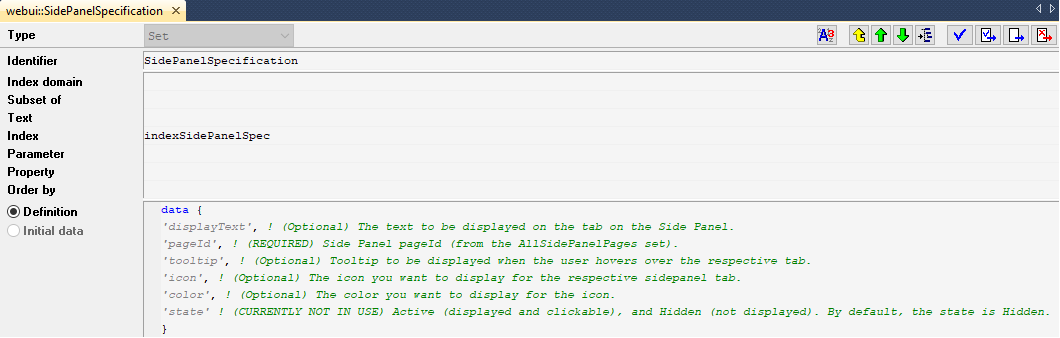
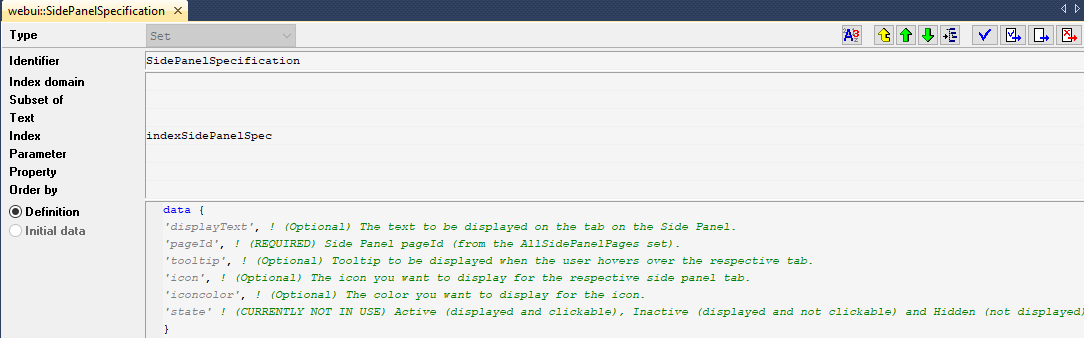
Changed color to iconcolor and corrected images

diff --git a/webui/side-panels-grd-pages.rst b/webui/side-panels-grd-pages.rst
@@ -200,7 +200,7 @@ This set has 4 elements representing side panels properties:
 			
 #. ``tooltip``: The text here would be displayed when the user hovers over that respective side panel tab. This is an optional field and if left empty, no tooltip is displayed.
 #. ``icon``: The icon you want to display on the side panel tab. You can select from a list of 1600+ icons, the reference can be found in the `icon list <../_static/aimms-icons/icons-reference.html>`_. `Custom icons <webui-folder.html#custom-icon-sets>`_ can also be used if required. This is an optional field and if left empty, no icon will be displayed.
-#. ``color``: The color you want to display for the icon configured, eg: Blue, Red, etc. Browsers support around `140 color names <https://www.w3schools.com/colors/colors_names.asp>`_. This is an optional field. You can also use Hex codes eg: #FF0000 for Red. This is an optional field; if left empty, the icon will be blue when the tab is collapsed. The icon color changes to white when the side panel tab is expanded since the tab's color becomes blue and most of the other colors blend in making it difficult to view the icon.
+#. ``iconcolor``: The color you want to display for the icon configured, eg: Blue, Red, etc. Browsers support around `140 color names <https://www.w3schools.com/colors/colors_names.asp>`_. This is an optional field. You can also use Hex codes eg: #FF0000 for Red. This is an optional field; if left empty, the icon will be blue when the tab is collapsed. The icon color changes to white when the side panel tab is expanded since the tab's color becomes blue and most of the other colors blend in making it difficult to view the icon.
 #. ``state``: This is the state for the side panel, i.e Active and Hidden. This is an optional field and is currently not in use.
 
 .. note:: 
@@ -239,7 +239,7 @@ then the data in the configuration string parameter may be filled in as follows:
 		( 2, displayText ) : "Quick Notes"           ,  ( 2, pageId      ) : "quick_notes"           ,
 		( 2, tooltip     ) : "Make a Quick Note"     ,  ( 3, displayText ) : "Help"                  ,
 		( 3, pageId      ) : "help_1"                ,  ( 3, tooltip     ) : "All the help you need!",
-		( 3, icon        ) : "aimms-question"        ,  ( 3, color       ) : "green"                  }
+		( 3, icon        ) : "aimms-question"        ,  ( 3, iconcolor       ) : "green"              }
 		
 In the above data we have not defined values for the color of the icon for the Filters tab and the icon and its color for the Quick Notes tab.
 

diff --git a/webui/side-panels.rst b/webui/side-panels.rst
@@ -114,7 +114,7 @@ This set has 4 elements representing side panels properties:
 			
 #. ``tooltip``: The text here would be displayed when the user hovers over that respective side panel tab. This is an optional field and if left empty, no tooltip is displayed.
 #. ``icon``: The icon you want to display on the side panel tab. You can select from a list of 1600+ icons, the reference can be found in the `icon list <../_static/aimms-icons/icons-reference.html>`_. `Custom icons <webui-folder.html#custom-icon-sets>`_ can also be used if required. This is an optional field and if left empty, no icon will be displayed.
-#. ``color``: The color you want to display for the icon configured, eg: Blue, Red, etc. Browsers support around `140 color names <https://www.w3schools.com/colors/colors_names.asp>`_. This is an optional field. You can also use Hex codes eg: #FF0000 for Red. This is an optional field; if left empty, the icon will be blue when the tab is collapsed. The icon color changes to white when the side panel tab is expanded since the tab's color becomes blue and most of the other colors blend in making it difficult to view the icon.
+#. ``iconcolor``: The color you want to display for the icon configured, eg: Blue, Red, etc. Browsers support around `140 color names <https://www.w3schools.com/colors/colors_names.asp>`_. This is an optional field. You can also use Hex codes eg: #FF0000 for Red. This is an optional field; if left empty, the icon will be blue when the tab is collapsed. The icon color changes to white when the side panel tab is expanded since the tab's color becomes blue and most of the other colors blend in making it difficult to view the icon.
 #. ``state``: This is the state for the side panel, i.e Active and Hidden. This is an optional field and is currently not in use.
 
 .. note:: 
@@ -153,7 +153,7 @@ then the data in the configuration string parameter may be filled in as follows:
 		( 2, displayText ) : "Quick Notes"           ,  ( 2, pageId      ) : "quick_notes"           ,
 		( 2, tooltip     ) : "Make a Quick Note"     ,  ( 3, displayText ) : "Help"                  ,
 		( 3, pageId      ) : "help_1"                ,  ( 3, tooltip     ) : "All the help you need!",
-		( 3, icon        ) : "aimms-question"        ,  ( 3, color       ) : "green"                  }
+		( 3, icon        ) : "aimms-question"        ,  ( 3, iconcolor       ) : "green"              }
 		
 In the above data we have not defined values for the color of the icon for the Filters tab and the icon and its color for the Quick Notes tab.
 
